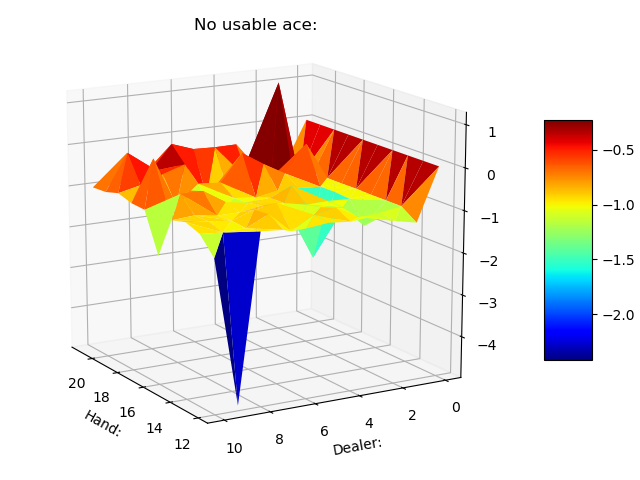
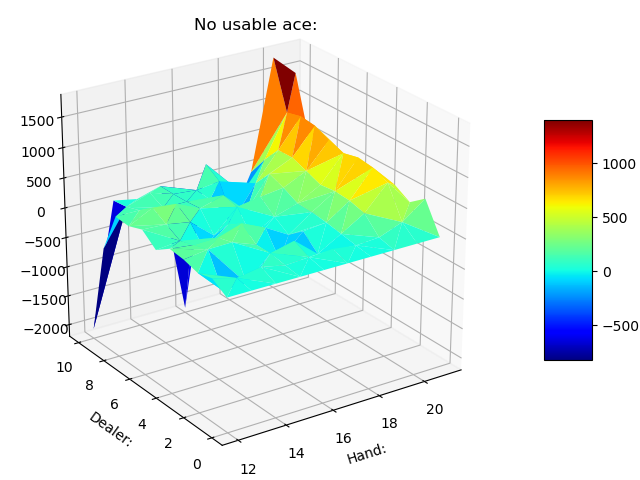
Minor code refactoring.

diff --git a/Blackjack-v0/analysis.py b/Blackjack-v0/analysis.py
@@ -48,31 +48,31 @@ if __name__ == '__main__':
 	table = np.array(table)
 
 	for hand in range(12, 22):
-					state_u, state_no_u = get_state_info(hand)
-					hit_u, hold_u = get_action_info(state_u)
-					hit_n_u, hold_n_u = get_action_info(state_no_u)
-					state_info = [get_state_action_info(hit_u, hold_u),
-								  get_state_action_info(hit_n_u, hold_n_u)]
-			
-					fig, ax = plt.subplots(nrows=1, ncols=2)
-					bars = []
-					counter = 0
-					for col in ax:
-						info = state_info[counter]
-						bars.append(col.bar(range(len(info[1])), info[1], \
-							                color='g', label = 'Hit'))
-						bars.append(col.bar(range(len(info[1])), info[2], \
-							                color='r', label = 'Hold'))
-						usable = counter == 0
-						col.set_title(f'Player sum: {info[0]}, Usable: {usable}')
-						col.legend()
-						counter += 1
-			
-					fig.text(0.5, 0.04, 'Dealers hand:', ha='center')
-					fig.text(0.04, 0.5, 'Action value:', va='center', \
-						     rotation='vertical')
-					#plt.savefig(f"Plots/player-hand-{hand}.png")
-					plt.show()
+		state_u, state_no_u = get_state_info(hand)
+		hit_u, hold_u = get_action_info(state_u)
+		hit_n_u, hold_n_u = get_action_info(state_no_u)
+		state_info = [get_state_action_info(hit_u, hold_u),
+					  get_state_action_info(hit_n_u, hold_n_u)]
+
+		fig, ax = plt.subplots(nrows=1, ncols=2)
+		bars = []
+		counter = 0
+		for col in ax:
+			info = state_info[counter]
+			bars.append(col.bar(range(len(info[1])), info[1], \
+				                color='g', label = 'Hit'))
+			bars.append(col.bar(range(len(info[1])), info[2], \
+				                color='r', label = 'Hold'))
+			usable = counter == 0
+			col.set_title(f'Player sum: {info[0]}, Usable: {usable}')
+			col.legend()
+			counter += 1
+
+		fig.text(0.5, 0.04, 'Dealers hand:', ha='center')
+		fig.text(0.04, 0.5, 'Action value:', va='center', \
+			     rotation='vertical')
+		#plt.savefig(f"Plots/player-hand-{hand}.png")
+		plt.show()
 
 
 	'''2) Use the TD-zero algorithm to calculate the value function under the 
@@ -87,7 +87,7 @@ if __name__ == '__main__':
 	value_function = dict.fromkeys(states, 0)
 
 	# Approximate the value function.
-	prediction = TDZero(env, value_function, agent, 0.5, 1, 100000)
+	prediction = TDZero(env, value_function, agent, 0.1, 1, 1000000)
 	print('Beginning prediction...')
 	prediction.predict()
 	value_function = prediction.value_function

diff --git a/prediction/td_zero.py b/prediction/td_zero.py
@@ -1,3 +1,4 @@
+# Created by Tristan Bester.
 import numpy as np 
 
 class TDZero(object):
@@ -14,13 +15,14 @@ class TDZero(object):
 		for episode in range(self.n_episodes):
 			done = False
 			obs = self.env.reset()
-			a = self.agent.greedy_action(obs)
-
+		
 			while not done:
+				a = self.agent.greedy_action(obs)
 				obs_prime, reward, done, info = self.env.step(a)
 				self.value_function[obs] +=  self.alpha * (reward + 
 				self.value_function[obs_prime] - self.value_function[obs])
 				obs = obs_prime
+
 			if episode % self.checkpoint == 0:
 				print('Episode: ', episode)
 

diff --git a/models/Q_learning.py b/models/Q_learning.py
@@ -46,7 +46,6 @@ class QLearning(object):
 		return greedy_idx
 
 
-
 	def train(self, idx=None, q=None):
 		if self.record_training:
 			self.all_rewards = []
@@ -61,8 +60,8 @@ class QLearning(object):
 				a = self.eps_greedy(obs)
 				obs_prime, reward, done, info = self.env.step(a)
 				self.Q_table[obs,a] += self.alpha * (reward + self.gamma *
-									 self.opt_action_val(obs_prime) - 
-									 self.Q_table[obs,a])
+									   self.opt_action_val(obs_prime) - 
+									   self.Q_table[obs,a])
 				obs = obs_prime
 				if self.record_training:
 					episode_reward += reward

diff --git a/Blackjack-v0/Blackjack_v0_demo.py b/Blackjack-v0/Blackjack_v0_demo.py
@@ -35,7 +35,7 @@ if __name__ == '__main__':
 			print(f'\x1b[0;30;47m' + f'Agent chooses action: {ac}' + '\x1b[0m')
 			obs, reward, done, _ = env.step(a)
 			a = agent.greedy_action(obs)
-			time.sleep(5)
+			time.sleep(2)
 		render(obs)
 
 		if reward == 1:
@@ -44,7 +44,7 @@ if __name__ == '__main__':
 			print(f'\x1b[5;30;43m' + 'Draw' + '\x1b[0m')
 		else:
 			print(f'\x1b[5;30;41m' + 'Game lost' + '\x1b[0m')
-		time.sleep(5)
+		time.sleep(3)
 
 
 

diff --git a/FrozenLake-v0/FrozenLake_v0.py b/FrozenLake-v0/FrozenLake_v0.py
@@ -10,9 +10,9 @@ from itertools import product
 
 # Initialize environment and action-value function.
 gamma = 1
-alpha = 0.01
+alpha = 0.1
 epsilon = 0.1
-n_episodes = 10000
+n_episodes = 20000
 env = gym.make('FrozenLake-v0', is_slippery=True)
 sa_pairs = product(range(env.observation_space.n), 
 				   range(env.action_space.n))

diff --git a/utils/plotting.py b/utils/plotting.py
@@ -10,7 +10,8 @@ def get_LS_fit(aves):
 	aves = np.array(aves)
 
 	lin_reg.fit(xs.reshape(-1,1), aves.reshape(-1,1))
-	linear_fit = lin_reg.predict(aves.reshape(-1,1))
+
+	linear_fit = lin_reg.predict(xs.reshape(-1,1))
 	return linear_fit
 
 def moving_ave(ls, n=10):

diff --git a/models/__init__.py b/models/__init__.py
@@ -1,2 +1,3 @@
 from .Q_learning import QLearning
+from .sarsa import SARSA
 
